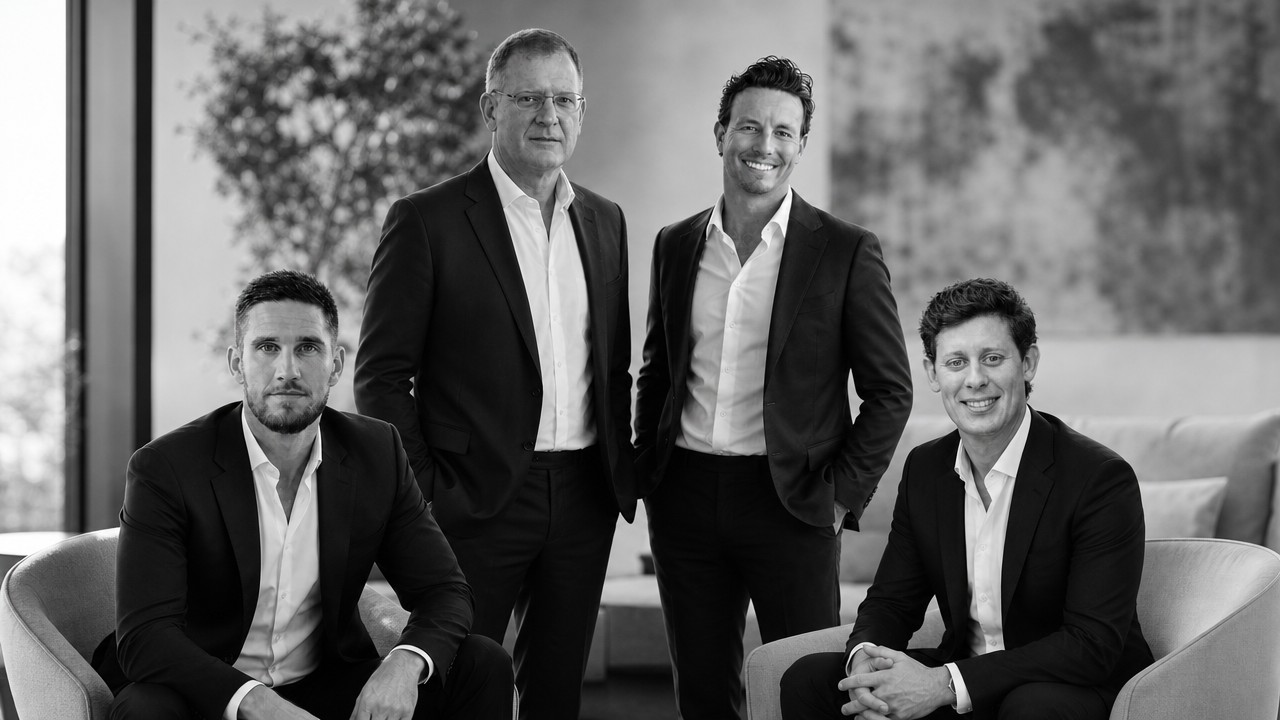
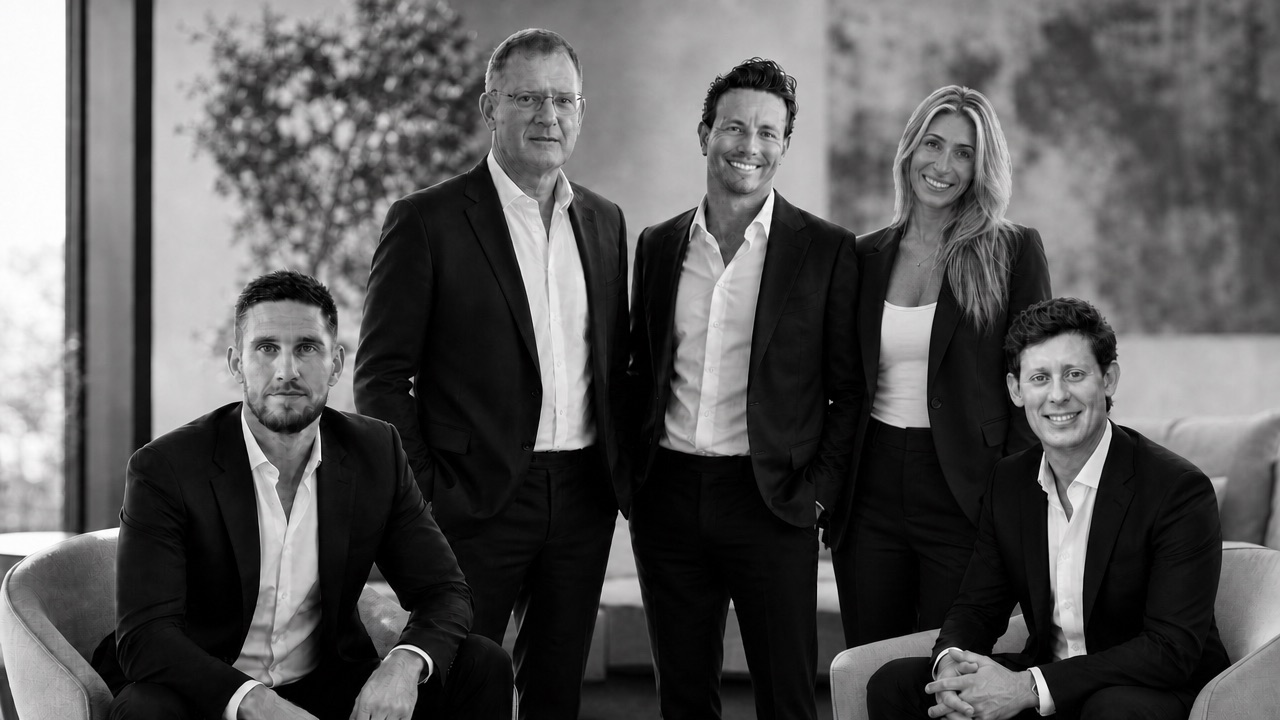
Update Who We Are section photo to new full-team group shot
Same 1280x720 dimensions as the previous photo, so existing gradient
overlay/positioning needed no changes. Cache-busted the CSS reference
since the filename is unchanged.

diff --git a/assets/css/style.css b/assets/css/style.css
@@ -162,7 +162,7 @@ select:focus-visible,
   background-color: var(--color-bg-dark);
   background-image:
     linear-gradient(0deg, rgba(4,21,12,0.75) 0%, rgba(4,21,12,0.55) 28%, rgba(4,21,12,0.26) 60%, rgba(4,21,12,0.2) 100%),
-    url('../images/who-we-are-team.jpg');
+    url('../images/who-we-are-team.jpg?v=2');
   background-size: 100% 100%, contain;
   background-position: center, center;
   background-repeat: no-repeat, no-repeat;
